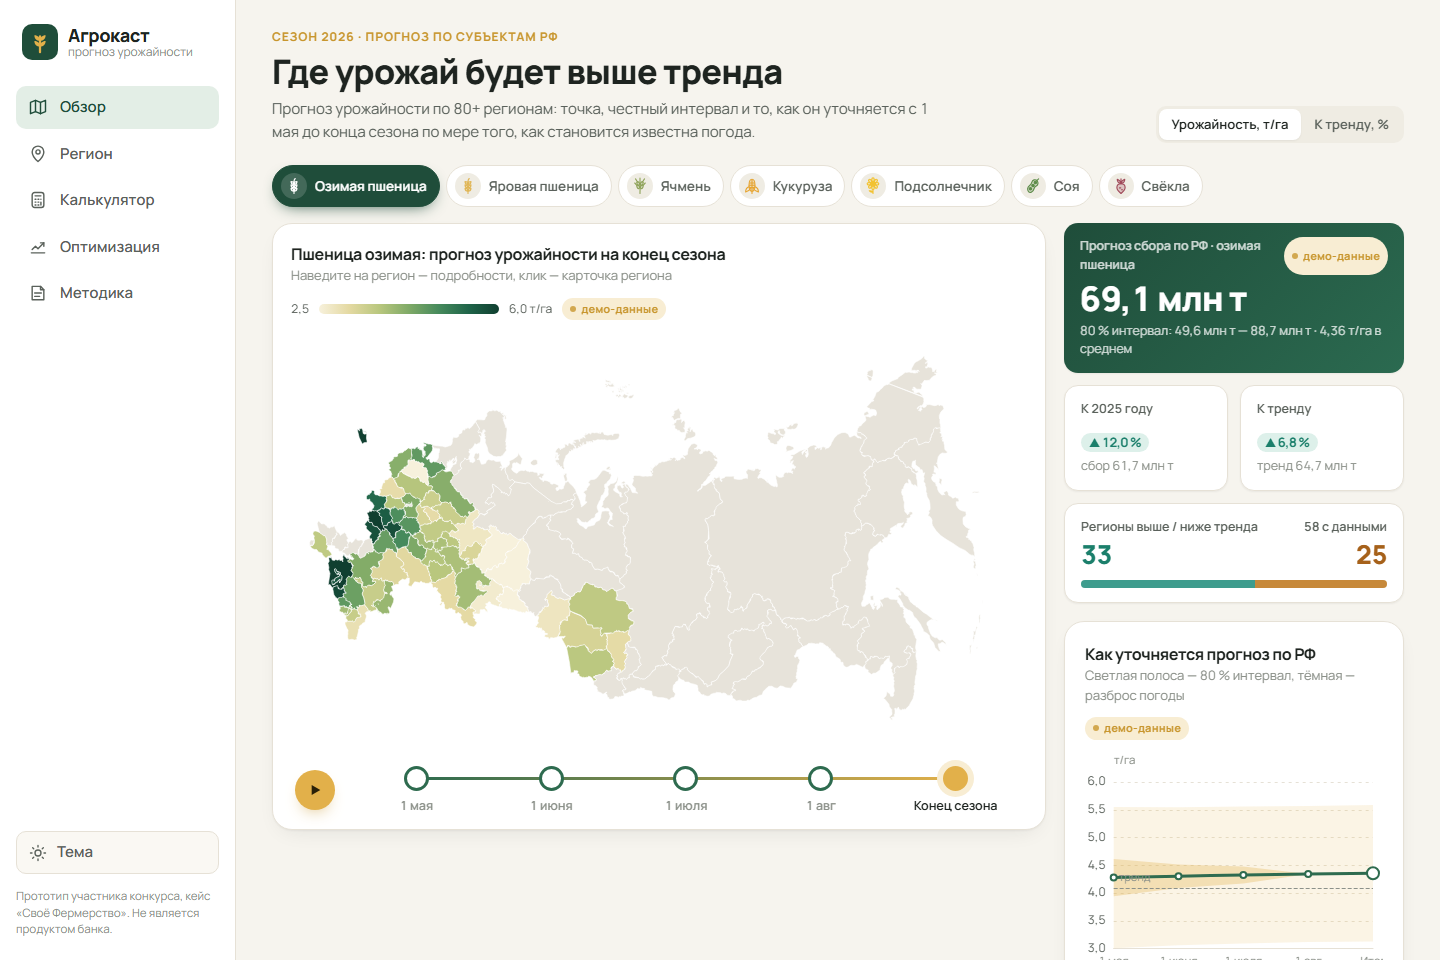
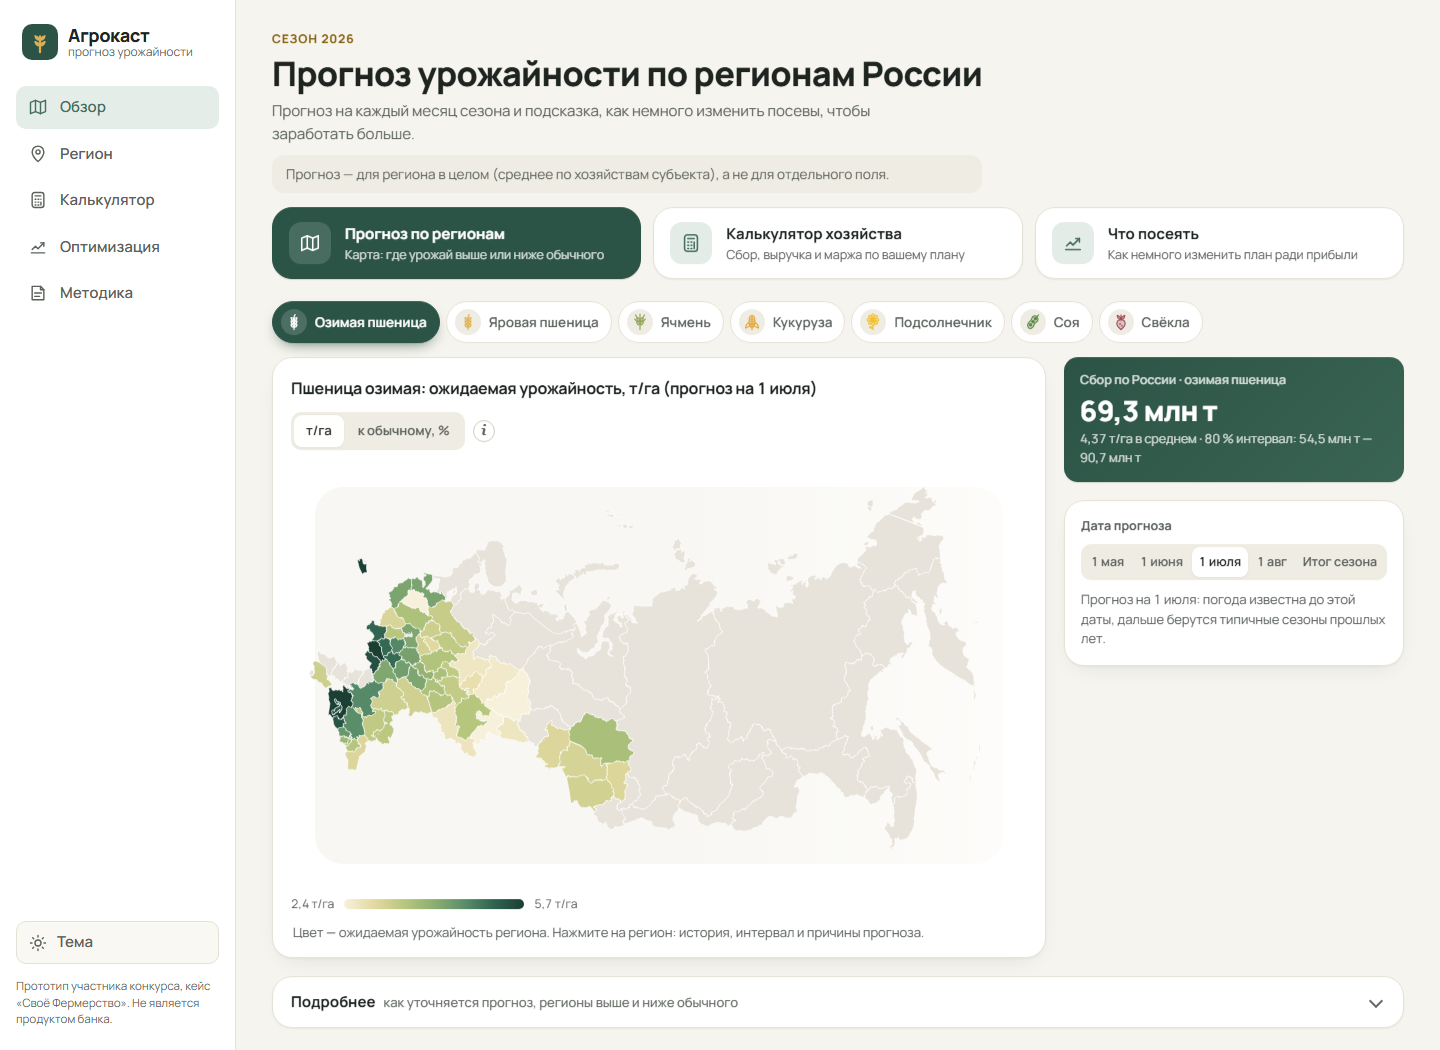
Site: calculator in hectares, Details disclosure, clear labels, fresh screenshots and README

diff --git a/web/js/method.js b/web/js/method.js
@@ -17,7 +17,7 @@ export function renderMethod(el) {
   <div class="page-head"><div>
     <div class="eyebrow">О методике</div>
     <h1>Открытые данные → модель → прогноз → решение</h1>
-    <p class="lead">Модель предсказывает не урожайность «в лоб», а отклонение от технологического тренда, которое объясняет погода сезона. Выход — распределение по погодным сценариям, а не одна точка.</p>
+    <p class="lead">Модель оценивает, насколько погода сезона сдвигает урожайность относительно обычного уровня региона. Итог — диапазон («плохой, обычный, хороший год»), а не одна цифра.</p>
   </div></div>
   <div class="card" style="margin-bottom:18px"><div class="card-head"><h3>Источники данных</h3><span class="chip-note">все открытые, без ключей</span></div>
     <div class="sources" style="grid-template-columns:repeat(auto-fit,minmax(210px,1fr))">${SOURCES.map(([ic, h, p]) => `<div class="source"><div class="ic">${SRC_ICONS[ic]}</div><h4>${h}</h4><p>${p}</p></div>`).join('')}</div>
@@ -31,8 +31,8 @@ export function renderMethod(el) {
     </div>
   </div>
   <div class="grid g-2">
-    <div class="card"><div class="card-head"><div><h3>Точность: MAPE по субъектам, %</h3><div class="sub">Скользящая проверка 2012–2025, меньше — лучше</div></div>${mockBadge('metrics', 'предварительная модель', 'Результаты исследовательской модели (reports/model_weather.md); финальная модель ещё подбирается')}</div><div class="chart lg" id="mAcc"></div></div>
-    <div class="card"><div class="card-head"><div><h3>Выигрыш погоды к тренду по дате прогноза</h3><div class="sub">Снижение MAE относительно линейного тренда, %</div></div>${mockBadge('metrics', 'предварительная модель')}</div><div class="chart lg" id="mLead"></div></div>
+    <div class="card"><div class="card-head"><div><h3>Модель ошибается реже, чем простые правила</h3><div class="sub">Средняя ошибка прогноза по регионам, %, проверка на прошлых годах 2012–2025: меньше — лучше</div></div>${mockBadge('metrics', 'Предварительная модель', 'Результаты исследовательской модели (reports/model_weather.md); финальная модель ещё подбирается')}</div><div class="chart lg" id="mAcc"></div></div>
+    <div class="card"><div class="card-head"><div><h3>Погода начинает помогать с июля–августа</h3><div class="sub">На сколько % ошибка меньше, чем у «обычного уровня» (тренда), по дате прогноза</div></div>${mockBadge('metrics', 'Предварительная модель')}</div><div class="chart lg" id="mLead"></div></div>
   </div>
   <div class="card" style="margin-top:18px"><div class="card-head"><h3>Честные ограничения</h3></div>
     <ul class="limits">

diff --git a/web/js/app.js b/web/js/app.js
@@ -11,7 +11,8 @@ const ROUTES = { overview: renderOverview, region: renderRegion, calc: renderCal
 const main = document.getElementById('main');
 
 function route() {
-  const [, name = 'overview', arg] = location.hash.split('/');
+  const [path, query = ''] = location.hash.split('?');
+  const [, name = 'overview', arg] = path.split('/');
   const r = ROUTES[name] ? name : 'overview';
   if (r === 'region' && arg) state.region = arg;
   document.querySelectorAll('#nav a').forEach((a) => a.classList.toggle('active', a.dataset.route === r));
@@ -21,6 +22,8 @@ function route() {
   page.className = 'page';
   main.appendChild(page);
   ROUTES[r](page);
+  // #/optimize?open — раскрыть все «Подробнее» (для ссылок и скриншотов)
+  if (query === 'open') page.querySelectorAll('details.more').forEach((d) => { d.open = true; });
   if (!route.first) window.scrollTo({ top: 0 });
   route.first = false;
 }

diff --git a/web/css/app.css b/web/css/app.css
@@ -469,3 +469,5 @@ input[type="range"]:active::-webkit-slider-thumb { transform: scale(1.15); }
 .g-calc .table th { font-size: 10.5px; }
 .g-calc .table th, .g-calc .table td { padding: 9px 5px; }
 @media (max-width: 1180px) { .g-calc { grid-template-columns: 1fr; } }
+
+@media (max-width: 520px) { #cK .kpi.hero { grid-column: 1 / -1; } }

diff --git a/web/README.md b/web/README.md
@@ -22,17 +22,22 @@ uv run python -I src/web_export/serve.py 8000
 uv run python -I -X utf8 src/web_export/make_mock.py
 ```
 
-## Экраны
+## Экраны и принцип подачи
 
-| экран | адрес | что показывает |
-|---|---|---|
-| Обзор | `#/overview` | Карта России (прогноз т/га или отклонение от тренда), выбор культуры, шкала дат 1 мая → конец сезона с проигрыванием, KPI по РФ, уточнение прогноза, крупнейшие регионы |
-| Регион | `#/region/<okato>` | История 2000–2025 + тренд + веер прогноза, факторы погоды, погода сезона против нормы (температура, осадки, ГТК), почвы, все культуры региона |
-| Калькулятор | `#/calc` | Регион, площадь, структура посевов, поправки на почву, сорт и агротехнику → т/га и объём по культурам, выручка, затраты, маржа, плохой / обычный / хороший год |
-| Оптимизация | `#/optimize` | Текущий план → рекомендованный при ограничении «менять не больше X %» и уровне осторожности: дифф планов, эффект, кривая «X → выигрыш», прибыль по погодным сценариям |
-| Методика | `#/method` | Источники данных, схема расчёта, точность против бейзлайнов, выигрыш по дате прогноза, ограничения |
+Принцип: сначала одна главная мысль, подробности раскрываются по запросу («Подробнее», вкладки). Везде сказано, что прогноз — **для региона в целом** (среднее по хозяйствам субъекта), а не для отдельного поля.
 
-Светлая и тёмная тема (по системе или кнопкой), адаптивная вёрстка до 360 px.
+| экран | адрес | на первом экране | по запросу |
+|---|---|---|---|
+| Обзор | `#/overview` | Фраза «что это», три входа (карта / калькулятор / что посеять), выбор культуры, карта, одно число — сбор по России, компактный переключатель даты | «Подробнее»: как уточняется прогноз, регионы выше и ниже обычного, крупнейшие регионы |
+| Регион | `#/region/<okato>` | Вывод одной фразой, 4 числа, главный график (история + веер прогноза) | Вкладки: почему такой прогноз (факторы), погода сезона, почвы, все культуры региона |
+| Калькулятор | `#/calc` | План посевов **в гектарах** по каждой культуре (поля независимы, доли — подпись), поправки на ваши поля, сбор / выручка / маржа, таблица по культурам, плохой / обычный / хороший год | «Подробнее»: маржа по культурам |
+| Что посеять | `#/optimize` | Вывод («Переведите X % площади…»), ползунки переноса и осторожности, «было → стало» | «Подробнее»: кривая «сколько меняем → сколько выигрываем», прибыль по сезонам, допущения; «Весь регион целиком» |
+| Методика | `#/method` | Источники, схема расчёта | точность против простых правил, ограничения |
+
+- Дата прогноза: 1 мая … 1 августа — прогноз; «Итог сезона» — **оценка по фактической погоде сезона**, а не прогноз (так подписано везде).
+- Вместо россыпи плашек — значок «i» с поповером «Данные и допущения».
+- Ссылка с суффиксом `?open` (например `#/optimize?open`) раскрывает все «Подробнее» — удобно для скриншотов.
+- Светлая и тёмная тема (по системе или кнопкой), контраст текста не ниже WCAG AA, адаптивная вёрстка до 360 px.
 
 ## Структура
 
@@ -54,7 +59,7 @@ web/
 
 ## Данные: что реальное, что заглушка
 
-Реальные (из `data/clean`): границы, история урожайности и площадей, тренды, погода сезона и нормы, почвы, цены производителей. Заглушки (`"mock": true`, в интерфейсе — плашка «демо-данные»): прогноз по датам, вклады факторов погоды, сценарии урожайности, затраты на гектар и поправки, метрики (результаты предварительной модели).
+Реальные (из `data/clean`): границы, история урожайности и площадей, тренды, погода сезона и нормы, почвы, цены производителей. Итоговые модели и оптимизация выгружены в те же файлы (`"mock": false`). Допущениями остаются затраты на гектар и поправки калькулятора (подписаны в поповерах «i»). Файл с `"mock": true` получает значок «Демо-данные» автоматически.
 
 ## Как подставить реальные результаты модели
 
